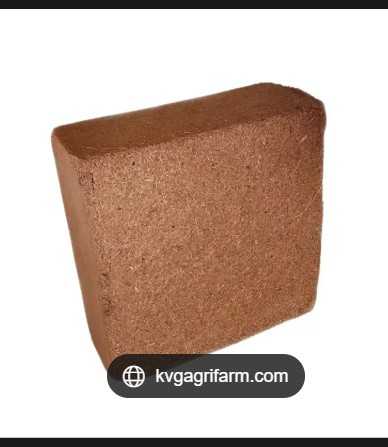
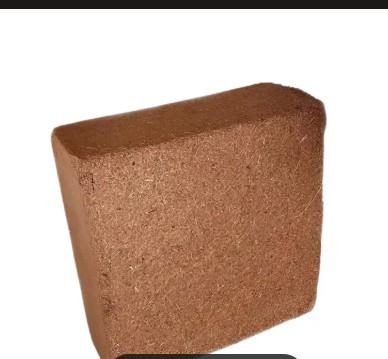
fix:updated page

Changed region(s): [[0.0, 0.1838, 1.0, 1.0], [0.0, 0.0, 1.0, 0.0306]]

diff --git a/src/Components/cocopeatcard.css b/src/Components/cocopeatcard.css
@@ -1,0 +1,140 @@
+* {
+  margin: 0;
+  padding: 0;
+  box-sizing: border-box;
+}
+
+body {
+  background: #f5f3eb;
+  font-family: Arial, Helvetica, sans-serif;
+}
+
+.product-wrapper {
+  display: flex;
+  justify-content: center;
+  align-items: flex-start;
+  gap: 40px;
+  padding: 50px;
+  flex-wrap: wrap;
+}
+
+/* Left Card */
+
+.left-card {
+  width: 350px;
+  background: #ffffff;
+  border-radius: 20px;
+  padding: 25px;
+  box-shadow: 0 8px 20px rgba(0, 0, 0, 0.08);
+}
+
+.main-image {
+  width: 100%;
+  border-radius: 15px;
+}
+
+.left-card h2 {
+  margin-top: 20px;
+  font-size: 28px;
+  color: #1f2937;
+}
+
+.left-card p {
+  margin-top: 15px;
+  color: #666;
+  line-height: 1.7;
+  font-size: 16px;
+}
+
+.left-card label {
+  display: block;
+  margin-top: 25px;
+  margin-bottom: 10px;
+  font-weight: bold;
+  color: #333;
+}
+
+.left-card select {
+  width: 100%;
+  padding: 12px;
+  border-radius: 10px;
+  border: 1px solid #ccc;
+  font-size: 16px;
+  cursor: pointer;
+  outline: none;
+}
+
+.left-card select:focus {
+  border-color: #2d7a46;
+}
+
+/* Right Card */
+
+.preview-card {
+  flex: 1;
+  min-width: 500px;
+  background: #ffffff;
+  border-radius: 20px;
+  padding: 35px;
+  text-align: center;
+  box-shadow: 0 8px 20px rgba(0, 0, 0, 0.08);
+}
+
+.preview-card h2 {
+  color: #2d7a46;
+  font-size: 32px;
+  margin-bottom: 25px;
+}
+
+.preview-card img {
+  width: 100%;
+  max-width: 500px;
+  border-radius: 15px;
+  transition: all 0.4s ease;
+}
+
+.preview-card p {
+  margin-top: 25px;
+  color: #555;
+  font-size: 18px;
+  line-height: 1.8;
+}
+
+/* Responsive */
+
+@media (max-width: 992px) {
+  .product-wrapper {
+    flex-direction: column;
+    align-items: center;
+  }
+
+  .left-card,
+  .preview-card {
+    width: 100%;
+    max-width: 600px;
+  }
+
+  .preview-card {
+    min-width: auto;
+  }
+}
+
+@media (max-width: 576px) {
+  .product-wrapper {
+    padding: 20px;
+  }
+
+  .left-card,
+  .preview-card {
+    padding: 20px;
+  }
+
+  .left-card h2,
+  .preview-card h2 {
+    font-size: 24px;
+  }
+
+  .preview-card p {
+    font-size: 16px;
+  }
+}

diff --git a/src/routes/index.tsx b/src/routes/index.tsx
@@ -13,12 +13,14 @@ import {
 } from "lucide-react";
 import heroImg from "@/assets/hero-cocopeat.jpg";
 import pBlock from "@/assets/product-block.jpg";
-import pLowEc from "@/assets/product-lowec.jpg";
+import pLowEc from "@/assets/Low ec.jpg";
+import pHighEc from "@/assets/High-EC-Cocopeat.jpg";
 import pChips from "@/assets/product-chips.jpg";
 import pFiber from "@/assets/product-fiber.jpg";
 import pGrowbag from "@/assets/product-growbag.jpg";
 import pDiscs from "@/assets/product-discs.jpg";
 import logo from  "@/assets/RJ Logo.png";
+import FiveKgBlock from "@/Components/FiveKgBlock";
 export const Route = createFileRoute("/")({
   head: () => ({
     meta: [
@@ -43,13 +45,17 @@ export const Route = createFileRoute("/")({
 });
 
 const PRODUCTS = [
-  { name: "5 kg Cocopeat Blocks", img: pBlock, desc: "Compressed blocks expanding to ~75 L. Easy to ship, store and rehydrate." },
-  { name: "Low EC Cocopeat", img: pLowEc, desc: "Washed & buffered for sensitive crops. EC < 0.5 mS/cm." },
-  { name: "High EC Cocopeat", img: pLowEc, desc: "Unwashed cocopeat for industrial mulching & soil conditioning." },
+  {
+    name: "5 kg Cocopeat Blocks",
+    variants: [
+      { label: "Standard", img: pBlock, desc: "Compressed 5 kg blocks expanding to ~75 L. Easy to ship, store and rehydrate." },
+      { label: "Low EC", img: pLowEc, desc: "Washed & buffered for sensitive crops. EC < 0.5 mS/cm." },
+      { label: "High EC", img: pHighEc, desc: "Unwashed cocopeat for industrial mulching & soil conditioning." },
+    ],
+  },
   { name: "Coco Chips", img: pChips, desc: "Chunky coir pieces ideal for orchids, anthuriums and aeration." },
   { name: "Coco Fiber", img: pFiber, desc: "Long natural fibers for mattresses, ropes and erosion control." },
 ];
-
 const WHATSAPP = "[phone redacted]";
 const PHONE_DISPLAY = "[phone redacted]";
 const EMAIL = "[email redacted]";
@@ -285,6 +291,61 @@ function About() {
   );
 }
 
+function ProductCard({ p, i }: { p: any; i: number }) {
+  const hasVariants = Array.isArray(p.variants);
+  const [variantIndex, setVariantIndex] = useState(0);
+  const active = hasVariants ? p.variants[variantIndex] : p;
+
+  return (
+    <motion.article
+      initial={{ opacity: 0, y: 30 }}
+      whileInView={{ opacity: 1, y: 0 }}
+      viewport={{ once: true, margin: "-60px" }}
+      transition={{ duration: 0.5, delay: (i % 3) * 0.08, ease: "easeOut" }}
+      whileHover={{ y: -6 }}
+      className="group overflow-hidden rounded-2xl border bg-card transition hover:-translate-y-1"
+      style={{ boxShadow: "var(--shadow-card)" }}
+    >
+      <div className="aspect-[4/3] overflow-hidden bg-muted">
+        <img
+          key={active.img}
+          src={active.img}
+          alt={hasVariants ? `${p.name} - ${active.label}` : p.name}
+          loading="lazy"
+          width={1024}
+          height={1024}
+          className="h-full w-full object-cover transition duration-500 group-hover:scale-105"
+        />
+      </div>
+      <div className="p-5">
+        <div className="flex items-center justify-between gap-3">
+          <h3 className="text-lg font-semibold">{p.name}</h3>
+          {hasVariants && (
+            <select
+              value={variantIndex}
+              onChange={(e) => setVariantIndex(Number(e.target.value))}
+              className="cursor-pointer rounded-full border bg-background px-3 py-1 text-xs font-medium text-foreground focus:outline-none focus:ring-2 focus:ring-primary"
+            >
+              {p.variants.map((v: any, idx: number) => (
+                <option key={v.label} value={idx}>
+                  {v.label}
+                </option>
+              ))}
+            </select>
+          )}
+        </div>
+        <p className="mt-1.5 text-sm text-muted-foreground">{active.desc}</p>
+        <a
+          href="#contact"
+          className="mt-4 inline-flex items-center gap-1 text-sm font-medium text-primary hover:underline"
+        >
+          Learn More <ArrowRight className="h-3.5 w-3.5" />
+        </a>
+      </div>
+    </motion.article>
+  );
+}
+
 function Products() {
   return (
     <section id="products" className="bg-muted/40 py-20 md:py-28">
@@ -303,37 +364,7 @@ function Products() {
         </div>
         <div className="mt-12 grid gap-6 sm:grid-cols-2 lg:grid-cols-3">
           {PRODUCTS.map((p, i) => (
-            <motion.article
-              key={p.name}
-              initial={{ opacity: 0, y: 30 }}
-              whileInView={{ opacity: 1, y: 0 }}
-              viewport={{ once: true, margin: "-60px" }}
-              transition={{ duration: 0.5, delay: (i % 3) * 0.08, ease: "easeOut" }}
-              whileHover={{ y: -6 }}
-              className="group overflow-hidden rounded-2xl border bg-card transition hover:-translate-y-1"
-              style={{ boxShadow: "var(--shadow-card)" }}
-            >
-              <div className="aspect-[4/3] overflow-hidden bg-muted">
-                <img
-                  src={p.img}
-                  alt={p.name}
-                  loading="lazy"
-                  width={1024}
-                  height={1024}
-                  className="h-full w-full object-cover transition duration-500 group-hover:scale-105"
-                />
-              </div>
-              <div className="p-5">
-                <h3 className="text-lg font-semibold">{p.name}</h3>
-                <p className="mt-1.5 text-sm text-muted-foreground">{p.desc}</p>
-                <a
-                  href="#contact"
-                  className="mt-4 inline-flex items-center gap-1 text-sm font-medium text-primary hover:underline"
-                >
-                  Learn More <ArrowRight className="h-3.5 w-3.5" />
-                </a>
-              </div>
-            </motion.article>
+            <ProductCard key={p.name} p={p} i={i} />
           ))}
         </div>
       </div>

diff --git a/src/Components/cocopeatcard.jsx b/src/Components/cocopeatcard.jsx
@@ -1,0 +1,80 @@
+import React, { useState } from "react";
+import "./CocopeatCard.css";
+
+import blockImg from "../assets/product-block.jpg";
+import lowEcImg from "../assets/Low ec.jpg";
+import highEcImg from "../assets/High-EC-Cocopeat.jpg";
+
+const variants = {
+  low: {
+    title: "Low EC (Washed & Buffered)",
+    image: lowEcImg,
+    description: "Washed & buffered for sensitive crops. EC < 0.5 mS/cm."
+  },
+
+  high: {
+    title: "High EC (Unwashed)",
+    image: highEcImg,
+    description:
+      "Unwashed cocopeat for industrial mulching & soil conditioning."
+  }
+};
+
+export default function CocopeatCard() {
+  const [selected, setSelected] = useState("low");
+
+  return (
+    <div className="product-wrapper">
+
+      {/* Left Card */}
+
+      <div className="left-card">
+
+        <img
+          src={blockImg}
+          alt="5kg Cocopeat"
+          className="main-image"
+        />
+
+        <h2>product-block</h2>
+
+        <p>
+          Compressed blocks expanding to ~75 L.
+          Easy to ship, store and rehydrate.
+        </p>
+
+        <label>Select Type</label>
+
+        <select
+          value={selected}
+          onChange={(e) => setSelected(e.target.value)}
+        >
+          <option value="low">
+            Low EC (Washed & Buffered)
+          </option>
+
+          <option value="high">
+            High EC (Unwashed)
+          </option>
+        </select>
+
+      </div>
+
+      {/* Right Preview */}
+
+      <div className="preview-card">
+
+        <h2>{variants[selected].title}</h2>
+
+        <img
+          src={variants[selected].image}
+          alt={variants[selected].title}
+        />
+
+        <p>{variants[selected].description}</p>
+
+      </div>
+
+    </div>
+  );
+}